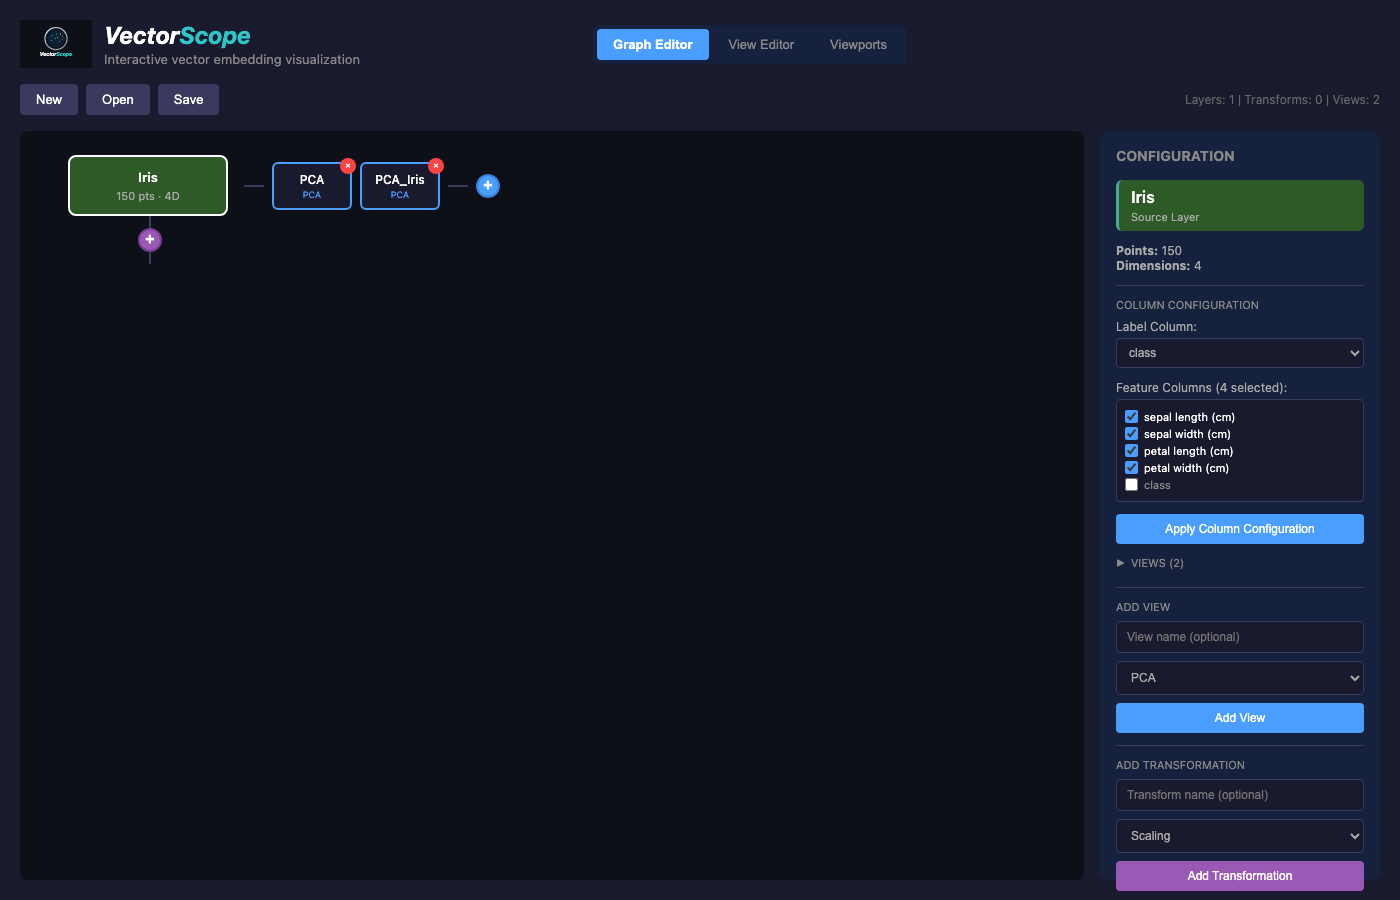
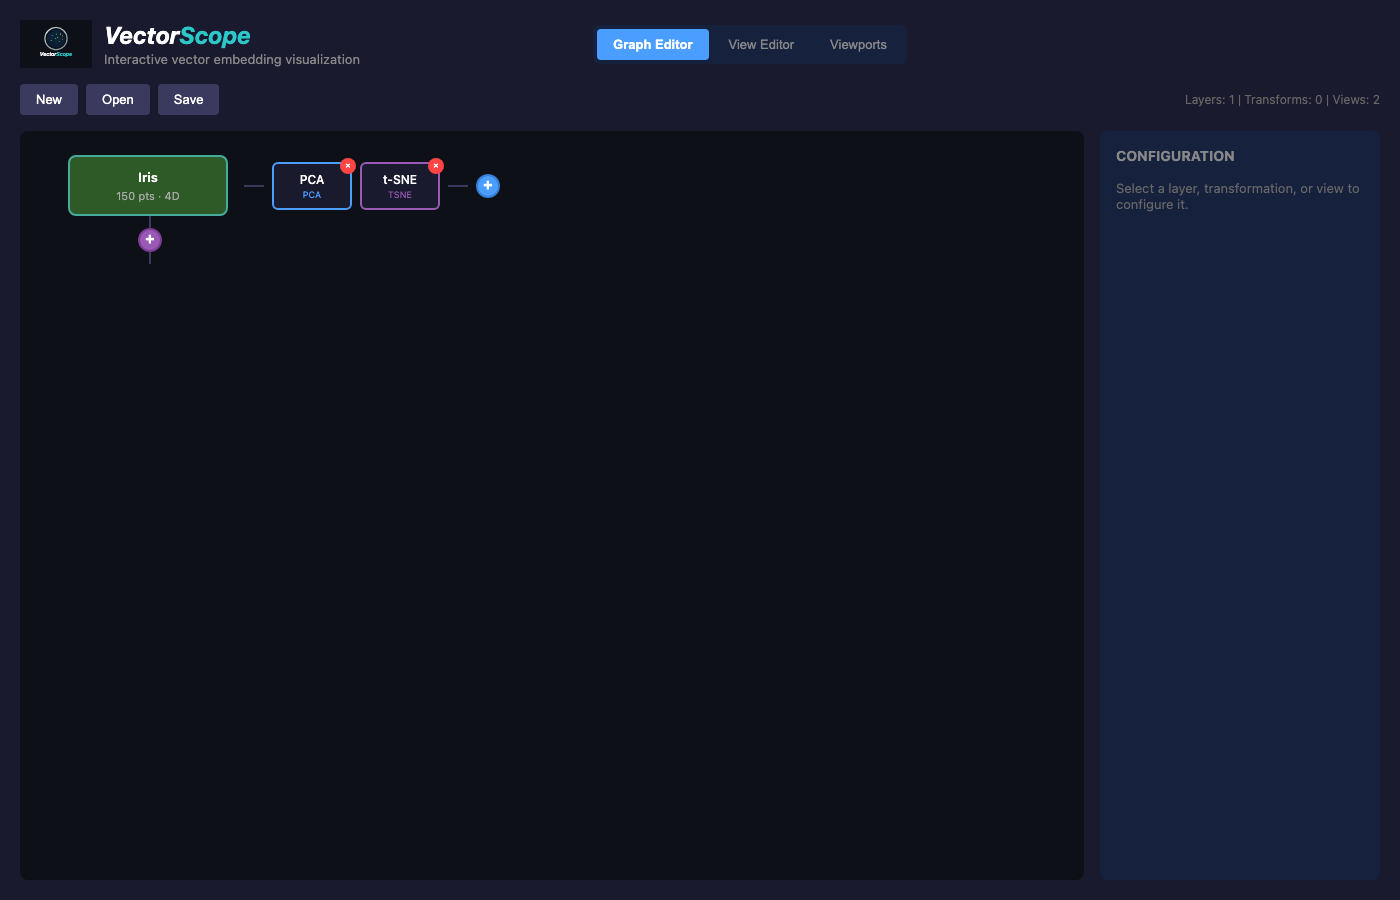
Add histogram and box plot screenshots to quickstart
- Update screenshot script to capture histogram and box plot views
- Add "Exploring Feature Distributions" section to quickstart
- Document histogram view for single dimension distributions
- Document box plot view for class-grouped distributions
- Fix t-SNE screenshot capture (now correctly shows t-SNE view)

🤖 Generated with [Claude Code](https://claude.com/claude-code)

Changed region(s): [[0.7986, 0.1867, 0.9829, 0.7156], [0.7986, 0.7467, 0.9829, 0.9956], [0.2764, 0.1867, 0.3071, 0.2489]]

diff --git a/scripts/capture_screenshots.py b/scripts/capture_screenshots.py
@@ -38,36 +38,27 @@ async def capture_screenshots():
         except Exception as e:
             print(f"Note: Could not load iris dataset: {e}")
 
-        # Click on the Iris layer node (look for text containing "Iris")
+        # Click on the Iris layer node to select it
         try:
-            # Click on the node with "Iris" text
             await page.click("text=Iris >> nth=0", timeout=5000)
             await page.wait_for_timeout(500)
         except Exception as e:
             print(f"Note: Could not click layer node: {e}")
-            # Try clicking on the react-flow pane to trigger selection
             try:
                 await page.click(".react-flow__node >> nth=0", timeout=3000)
                 await page.wait_for_timeout(500)
             except:
                 pass
 
-        # Add a t-SNE view
+        # Add a t-SNE view by clicking the "+" button and selecting t-SNE from modal
         try:
-            # Find the view type select in the config panel and change to t-SNE
-            # The select for view type should be visible when layer is selected
-            selects = await page.query_selector_all("select")
-            for select in selects:
-                options = await select.query_selector_all("option")
-                for opt in options:
-                    text = await opt.text_content()
-                    if "tsne" in text.lower() or "t-sne" in text.lower():
-                        await select.select_option(label=text)
-                        await page.wait_for_timeout(300)
-                        break
+            # Click the "+" button with title="Add view" to open the modal
+            await page.click("button[title='Add view']", timeout=5000)
+            await page.wait_for_timeout(500)
 
-            await page.click("text=Add View")
-            await page.wait_for_timeout(3000)  # t-SNE takes longer
+            # Click on "t-SNE" in the modal
+            await page.click("text=t-SNE >> nth=0", timeout=5000)
+            await page.wait_for_timeout(3000)  # t-SNE takes longer to compute
 
             # Screenshot 3: Graph with t-SNE view added
             await page.screenshot(path=SCREENSHOTS_DIR / "graph_with_view.png")
@@ -81,7 +72,12 @@ async def capture_screenshots():
             await page.click("text=Iris >> nth=0", timeout=3000)
             await page.wait_for_timeout(500)
 
-            await page.click("text=Add Transformation")
+            # Click the "+" button for transformation
+            await page.click("button[title='Add transformation']", timeout=5000)
+            await page.wait_for_timeout(500)
+
+            # Click on "Scaling" in the modal
+            await page.click("text=Scaling", timeout=5000)
             await page.wait_for_timeout(2000)
 
             # Screenshot 4: Graph with transformation added
@@ -96,15 +92,12 @@ async def capture_screenshots():
             await page.wait_for_timeout(1000)
 
             # Find the view selector dropdown and select first view
-            # Look for selects that might contain view options
             selects = await page.query_selector_all("select")
             for select in selects:
                 options = await select.query_selector_all("option")
                 if len(options) > 1:
-                    # Check if this looks like a view selector
                     first_opt = await options[0].text_content()
                     if "view" in first_opt.lower() or "select" in first_opt.lower():
-                        # Select the second option (first actual view)
                         await select.select_option(index=1)
                         await page.wait_for_timeout(2000)
                         break
@@ -139,6 +132,82 @@ async def capture_screenshots():
             print("Captured: viewports.png")
         except Exception as e:
             print(f"Note: Could not set up viewports: {e}")
+
+        # Go back to Graph Editor and add Histogram view
+        try:
+            await page.click("text=Graph Editor")
+            await page.wait_for_timeout(1000)
+
+            # Click on Iris layer
+            await page.click("text=Iris >> nth=0", timeout=3000)
+            await page.wait_for_timeout(500)
+
+            # Click the "+" button to add view
+            await page.click("button[title='Add view']", timeout=5000)
+            await page.wait_for_timeout(500)
+
+            # Click on "Histogram" in the modal
+            await page.click("text=Histogram", timeout=5000)
+            await page.wait_for_timeout(2000)
+
+            # Switch to View Editor and select the histogram view
+            await page.click("text=View Editor")
+            await page.wait_for_timeout(1000)
+
+            # Find and select the histogram view
+            selects = await page.query_selector_all("select")
+            for select in selects:
+                options = await select.query_selector_all("option")
+                for i, opt in enumerate(options):
+                    text = await opt.text_content()
+                    if "histogram" in text.lower():
+                        await select.select_option(index=i)
+                        await page.wait_for_timeout(2000)
+                        break
+
+            # Screenshot 7: Histogram view
+            await page.screenshot(path=SCREENSHOTS_DIR / "histogram_view.png")
+            print("Captured: histogram_view.png")
+        except Exception as e:
+            print(f"Note: Could not capture histogram view: {e}")
+
+        # Add Box Plot view
+        try:
+            await page.click("text=Graph Editor")
+            await page.wait_for_timeout(1000)
+
+            # Click on Iris layer
+            await page.click("text=Iris >> nth=0", timeout=3000)
+            await page.wait_for_timeout(500)
+
+            # Click the "+" button to add view
+            await page.click("button[title='Add view']", timeout=5000)
+            await page.wait_for_timeout(500)
+
+            # Click on "Box Plot" in the modal
+            await page.click("text=Box Plot", timeout=5000)
+            await page.wait_for_timeout(2000)
+
+            # Switch to View Editor and select the box plot view
+            await page.click("text=View Editor")
+            await page.wait_for_timeout(1000)
+
+            # Find and select the box plot view
+            selects = await page.query_selector_all("select")
+            for select in selects:
+                options = await select.query_selector_all("option")
+                for i, opt in enumerate(options):
+                    text = await opt.text_content()
+                    if "box" in text.lower():
+                        await select.select_option(index=i)
+                        await page.wait_for_timeout(2000)
+                        break
+
+            # Screenshot 8: Box Plot view
+            await page.screenshot(path=SCREENSHOTS_DIR / "boxplot_view.png")
+            print("Captured: boxplot_view.png")
+        except Exception as e:
+            print(f"Note: Could not capture box plot view: {e}")
 
         await browser.close()
         print(f"\nScreenshots saved to: {SCREENSHOTS_DIR}")

diff --git a/docs/quickstart.rst b/docs/quickstart.rst
@@ -169,6 +169,42 @@ Switch to the **Viewports** tab to see multiple views side by side:
 2. Switch between views - your selection is synchronized
 3. Click "Clear Selection" to deselect all points
 
+Exploring Feature Distributions
+^^^^^^^^^^^^^^^^^^^^^^^^^^^^^^^
+
+VectorScope provides 1D views for exploring individual feature distributions.
+
+**Histogram View**
+
+To see the distribution of values for a single dimension:
+
+1. Click on a layer node
+2. Click the "+" button and select **Histogram**
+3. Switch to View Editor and select the histogram view
+4. Use the dimension selector to explore different features
+
+.. figure:: _static/images/histogram_view.png
+   :alt: Histogram view
+   :width: 100%
+
+   Histogram view showing the distribution of a single dimension. Points are
+   colored by class, making it easy to see how classes separate along each feature.
+
+**Box Plot View**
+
+To compare feature distributions across classes:
+
+1. Click on a layer node
+2. Click the "+" button and select **Box Plot**
+3. Switch to View Editor and select the box plot view
+
+.. figure:: _static/images/boxplot_view.png
+   :alt: Box plot view
+   :width: 100%
+
+   Box plot view showing feature distributions grouped by class. This helps
+   identify which features best separate your data classes.
+
 Saving Your Work
 ----------------
 
